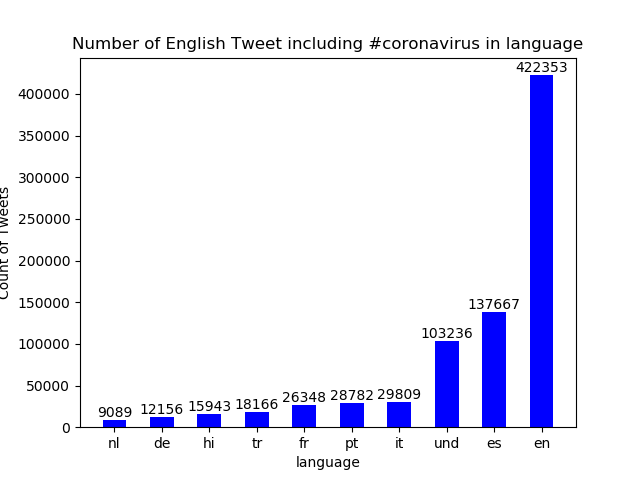
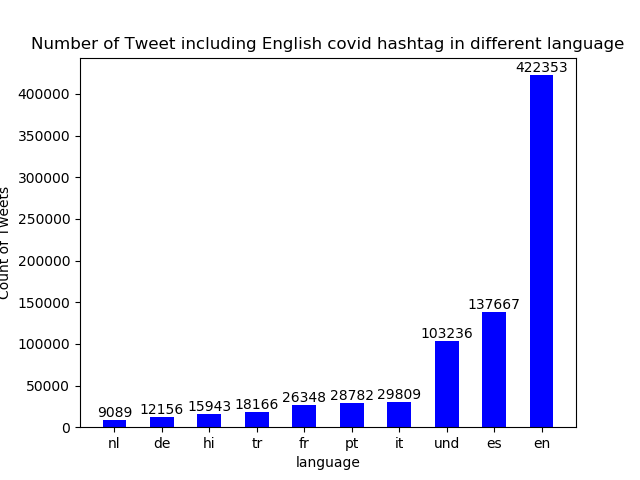
changed graph title

Changed region(s): [[0.0312, 0.0625, 0.9688, 0.125]]

diff --git a/src/visualize.py b/src/visualize.py
@@ -66,7 +66,7 @@ plt.xticks(range(len(x)),x)
 #plt.xticklabels(x)
 plt.xlabel(category)
 plt.ylabel("Count of Tweets")
-plt.title("Number of " + language + " Tweet including " + args.key + " in " + category)
+plt.title("Number of Tweet including " + language + " covid hashtag in different " + category)
 for rect in barplot:
     height = rect.get_height()
     plt.text(rect.get_x() + rect.get_width() / 2.0, height, f'{height:.0f}', ha='center', va='bottom')
